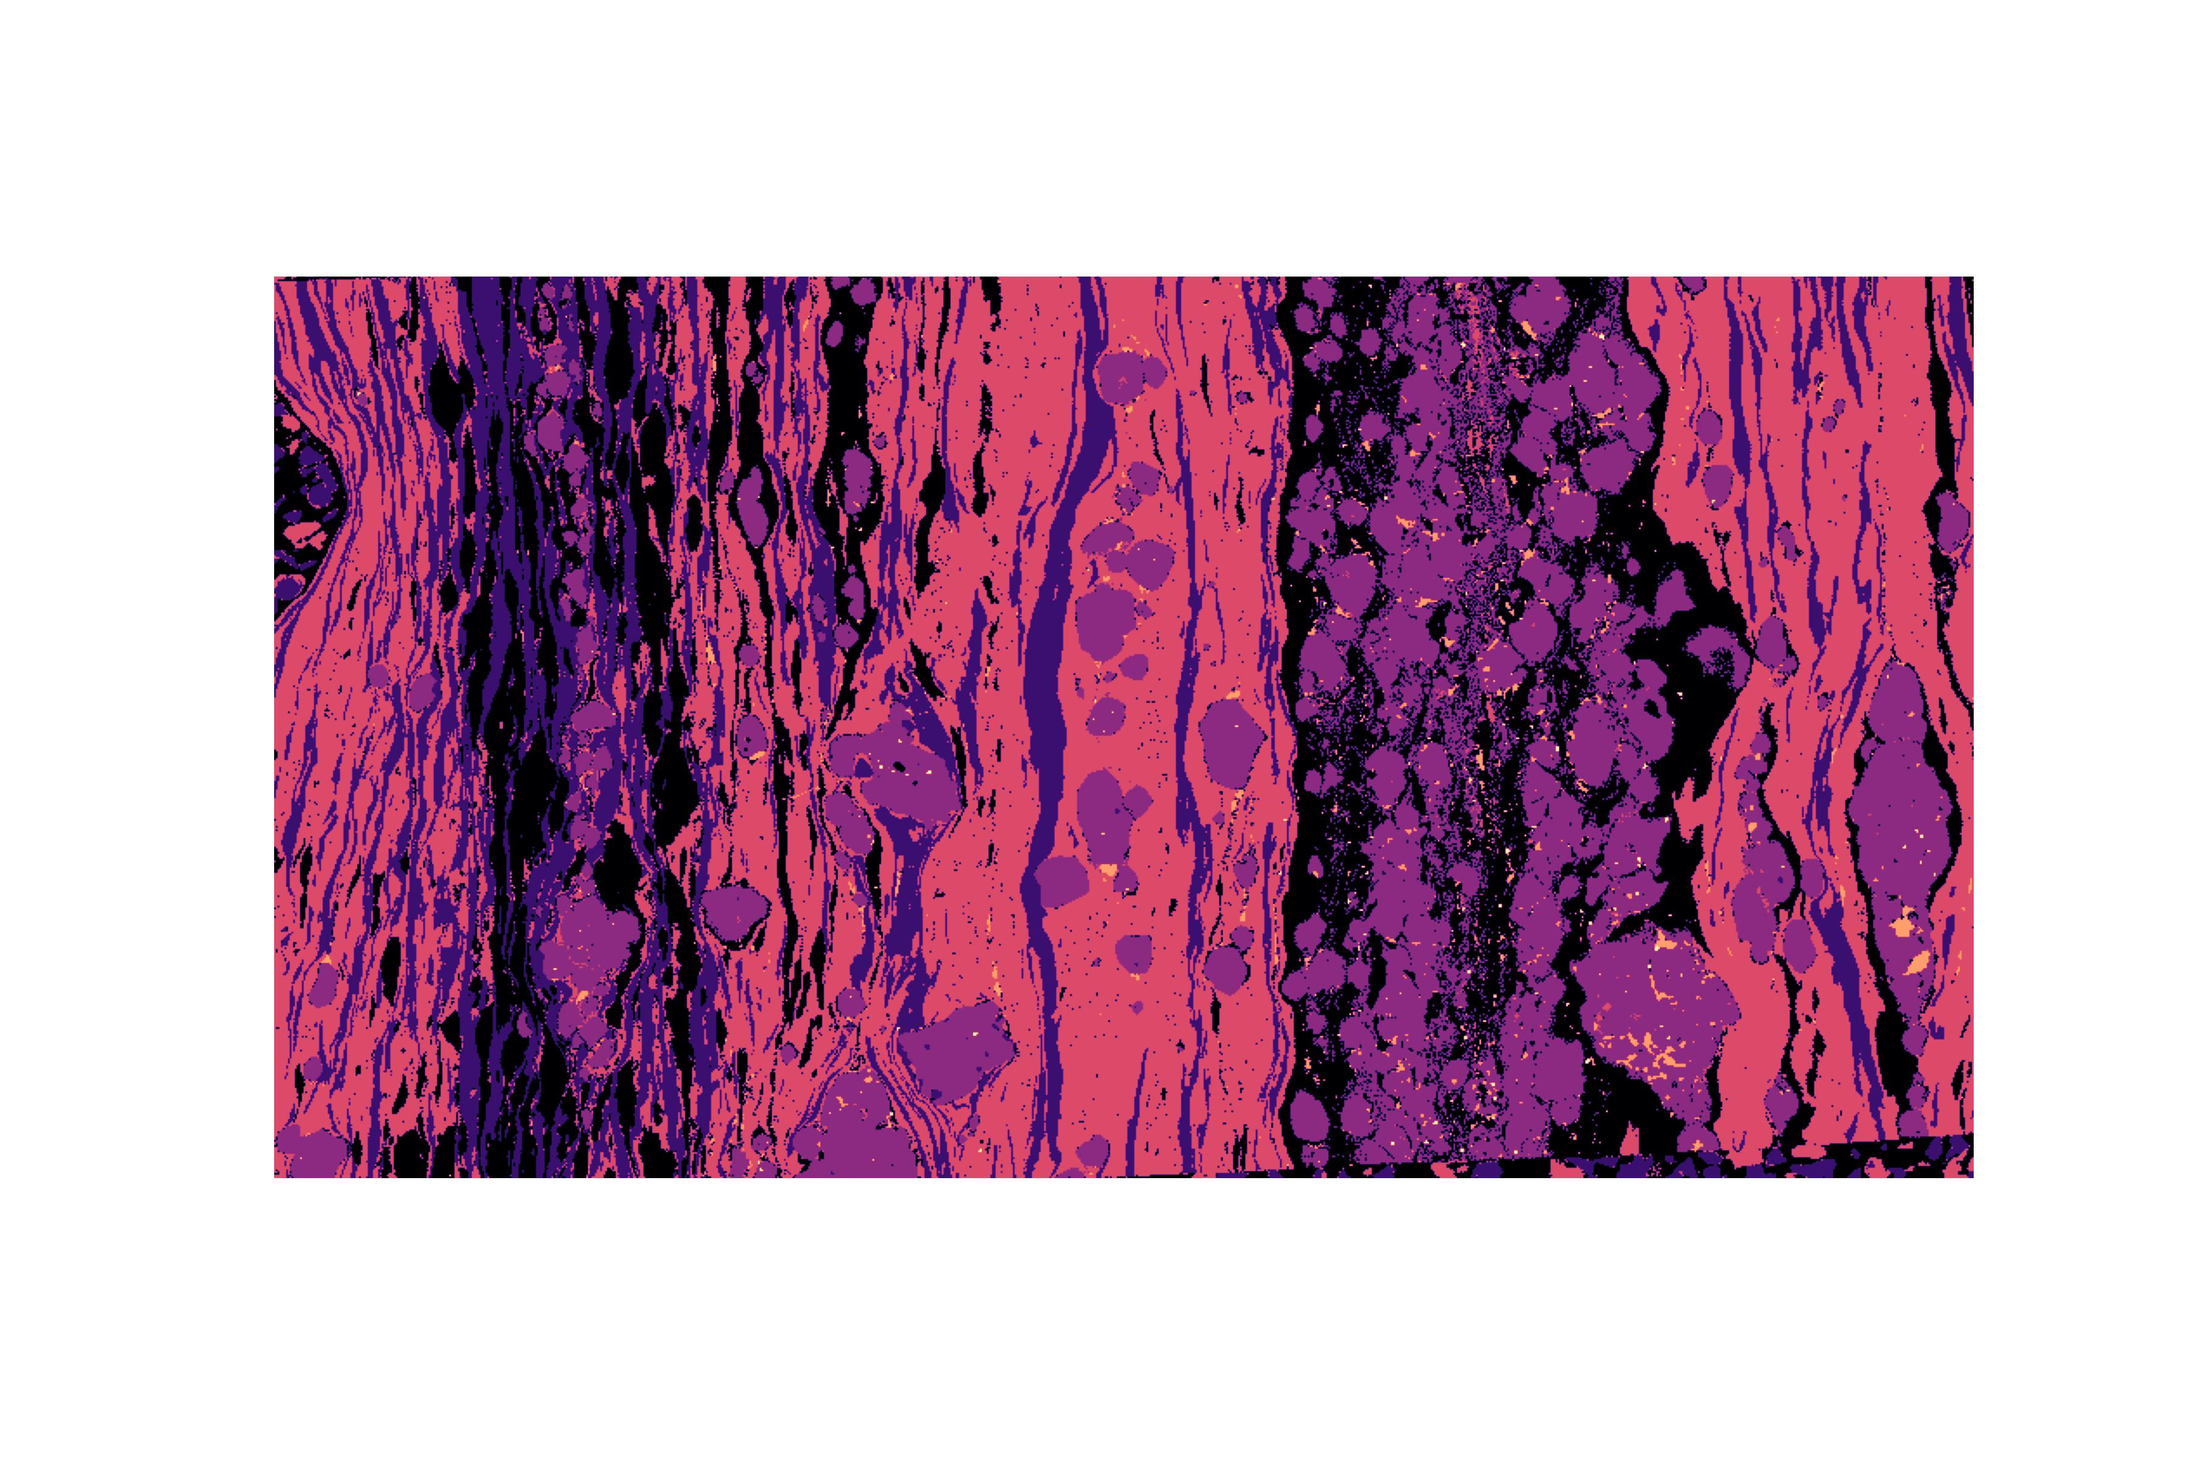
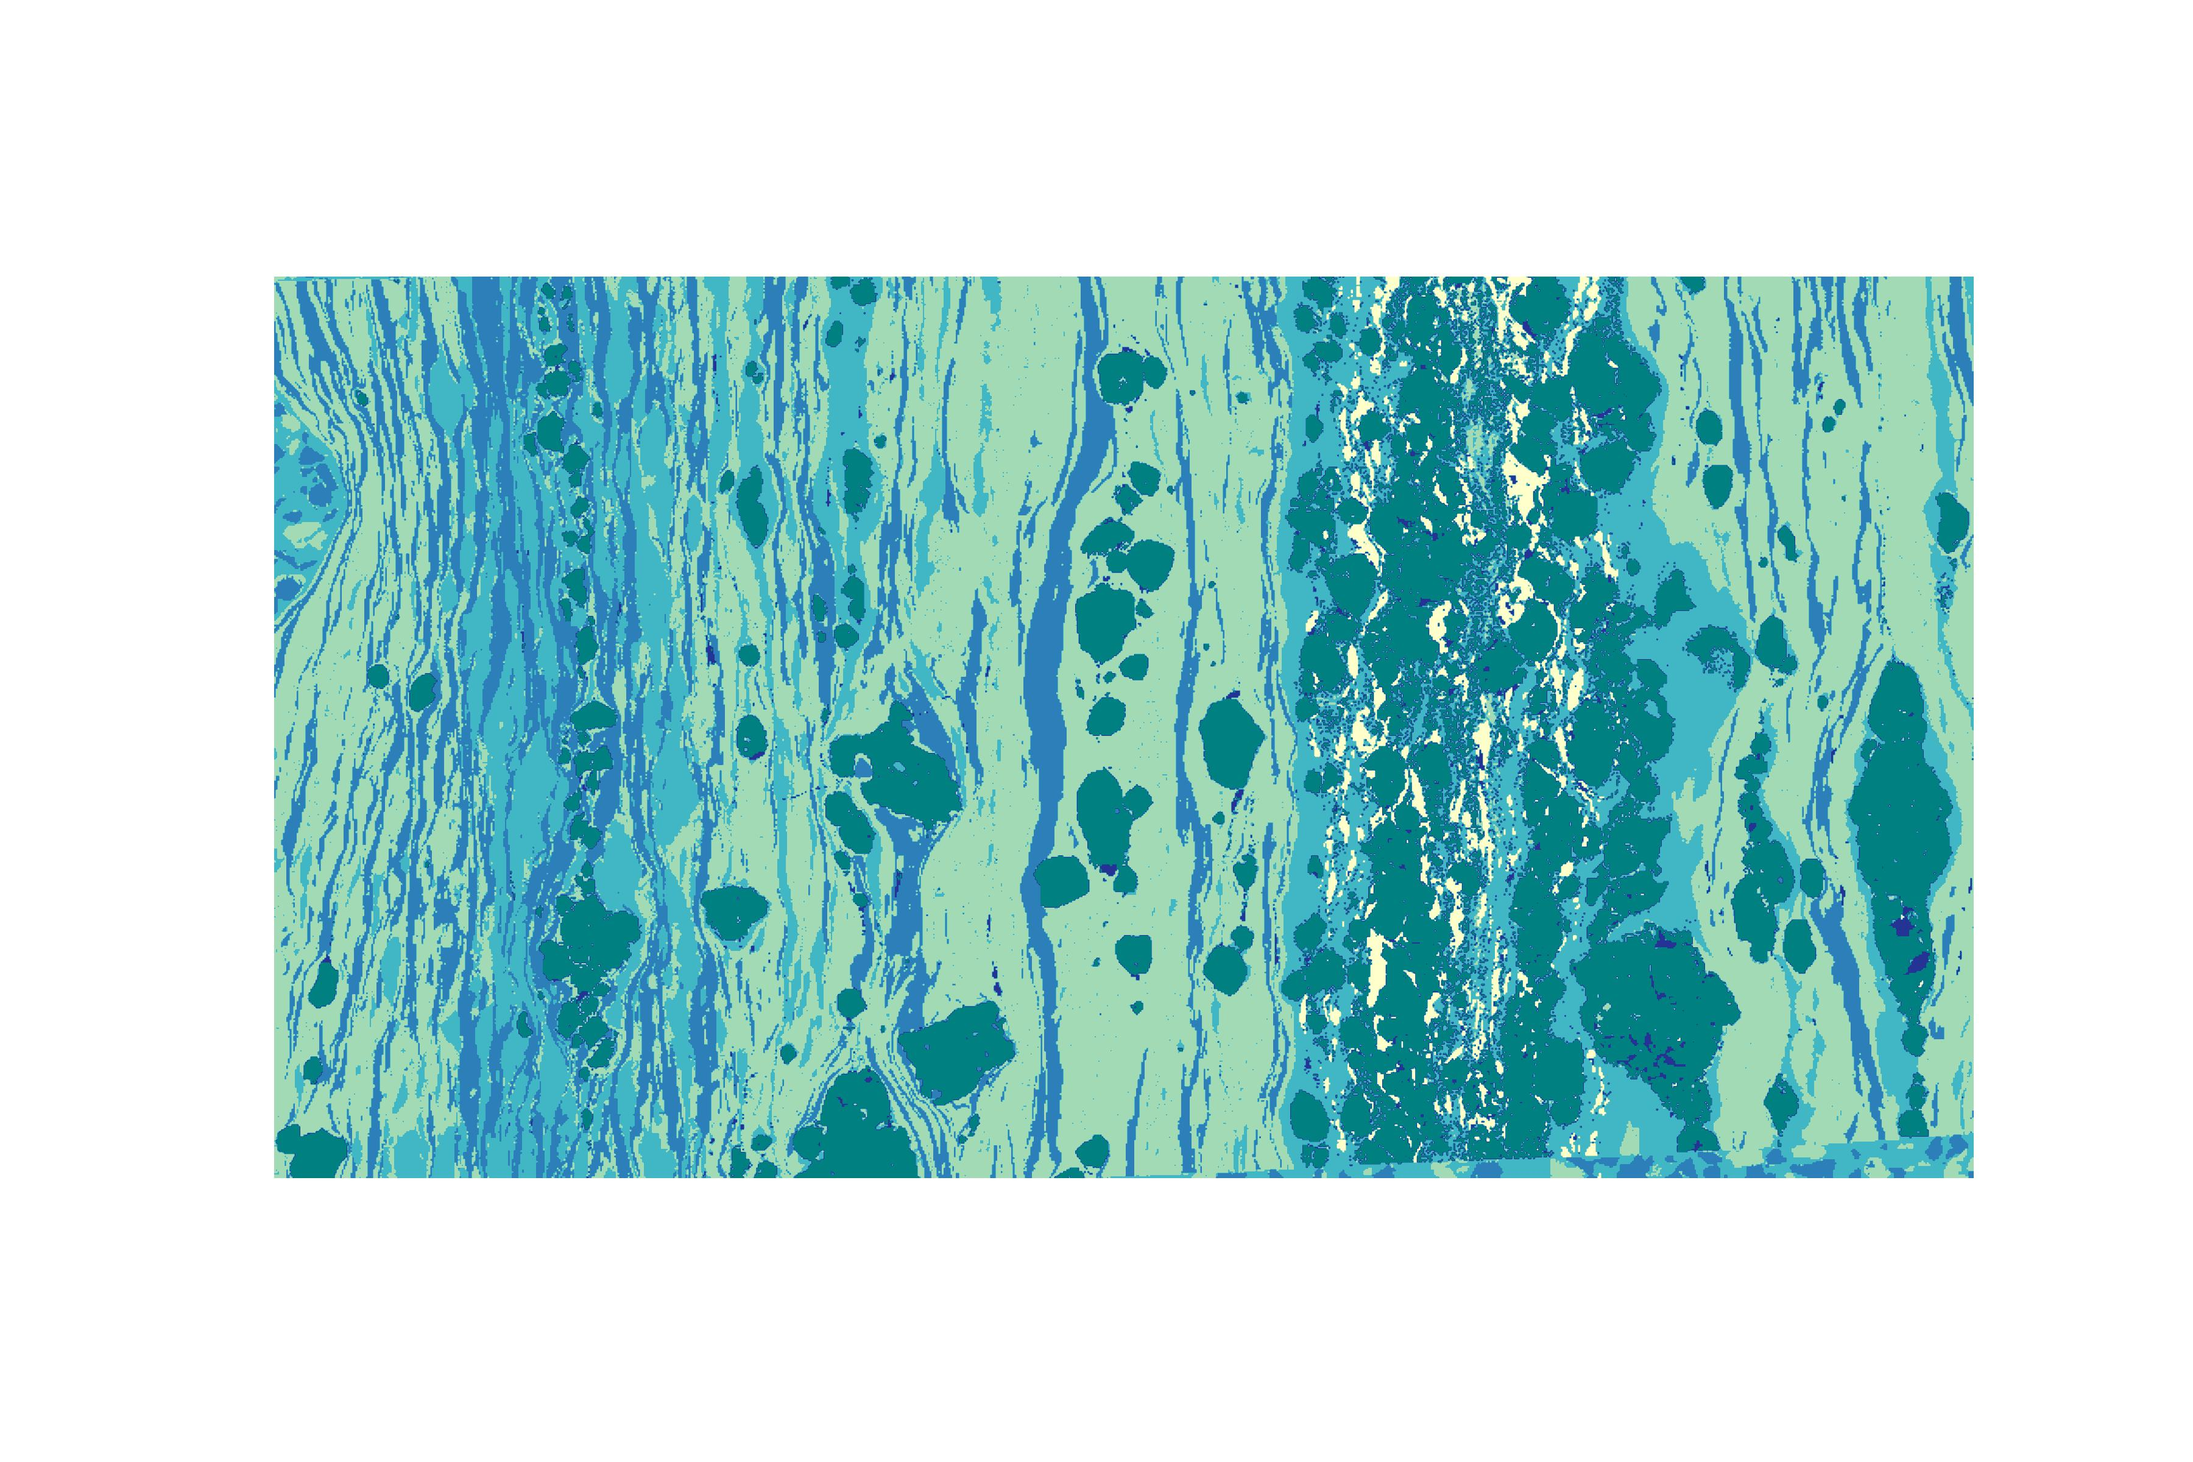
refactored colormap setting, added self.cluster_info, added methods for editing self.cluster_info, added method for defining each clusters colour

diff --git a/xrf_cluster.py b/xrf_cluster.py
@@ -6,14 +6,13 @@ TO DO LIST:
     
     5. Make docstrings!
     6. Build a method to score the clustering based on existing results.
-    9. Update everything for actual data.
     10. Maybe change how we deal with images so it is easy to save and export them after the fact,
     that said, generating the images takes so little time, so perhaps we don't need to carry
     them in memory.
     11. Revise save stats to not rely on numpy
     12. Figure out how to build a file with a neat folderset
     13. Define a method for picking colours for individual clusters as opposed to just setting default colur maps
-    14. Create a cluster dictionary containing "name" and "colour" (maybe more) to be set by users later
+
     
 DONE LIST
     1. update plot_clusters so that binary plots of cluster vs all can be made
@@ -24,6 +23,9 @@ DONE LIST
     4. Create the methods get_stats() and save_stats()
     7. Create save_maps() method or methods #actually just added save argument to the plotting image methods
     8. Figure out how to set a colour pallate for the images
+    9. Update everything for actual data.
+    14. Create a cluster dictionary containing "name" and "colour" (maybe more) to be set by users later
+    15. Define a method for setting different colormaps
 """
 import PIL
 import numpy as np
@@ -32,6 +34,8 @@ import glob
 from sklearn.cluster import KMeans
 from sklearn.preprocessing import StandardScaler
 import matplotlib.pyplot as plt
+from matplotlib.colors import ListedColormap
+import matplotlib as mpl
 
 
 #this is for later, let me figure out how to do things first
@@ -46,6 +50,7 @@ class XRF_cluster():
         self._channels = None #the features used in clustering
         self._n_cluster = None
         self._target_values = None
+        self.cluster_info = None #Information about each cluster, 0 = alias (e.g. mineral type) 1 = colour code
         
         self.outpath = outpath
         if self.outpath is None:
@@ -182,6 +187,120 @@ class XRF_cluster():
     def _unflatten_sheet(self):
         pass
     
+    def _generate_cluster_info(self):
+        """
+        Hidden method used to reset the cluster information dictionary in the 
+        class attributes. It first, resets the attrubute self.cluster_info to a 
+        blank dictionary. Then it fills that dictionary with two-value lists, keyed
+        0 - n where n is the number of clusters prescribed during self.cluster().
+        Note that this method fills the lists with default values "mineral" and 
+        "colour".
+        
+        The intended use for the cluster_info dict is to contain two bits of 
+        information about each cluster. 1) the proposed mineral type of the cluster
+        and 2) the colour used to identify that cluster in the map (likely as a
+        hex code) for example:
+                                                                    
+        self.cluster_info = {0: ['tourmaline', '#5F9EA0'],
+                             1: ['muscovite', '#FF00FF'],
+                             2: ['spodumene', '#FFDAB9']}
+        
+        DEVELOPMENT NOTE
+        ----------------
+        If more values are needed in each self.cluster_info dictionary entry, e.g.
+        if we have to add some geochemical value, or anything like that, please
+        add a default entry here. That will be easiest.
+        """
+        self.cluster_info = {}
+        for i in list(range(self._n_cluster)):
+            self.cluster_info[i] = ['mineral', 'colour']
+    
+    def set_colourmap(self, cmap):
+        """
+        Sets the output colourmap to one of the default matplotlib colourmaps.
+        Note, this changes the colour for every cluster sequentially, i.e., the
+        "lowest value" or "first" colour in the map will be assigned to cluster 
+        "0", then the second value goes to cluster "1", etc. 
+
+        NOTE ON SPELLING
+        Whenever an established code name is used, I will use that term, e.g.,
+        matplotlib colormap. At all other times I will use the Canadian spelling
+        of "colour".        
+
+        Parameters
+        ----------
+        cmap : str, matplotlib colormap
+            The colourmap to be used. In general, this class will default to 
+            "inferno". See options at https://matplotlib.org/stable/users/explain/colors/colormaps.html#colormaps
+
+        Raises
+        ------
+        ValueError
+            If the cmap value is not a valid colormap.
+        """
+        #Filtering out non-matplotlib colormaps
+        if cmap not in ['Accent', 'Accent_r', 'Blues', 'Blues_r', 'BrBG', 'BrBG_r', 'BuGn', 'BuGn_r', 'BuPu', 'BuPu_r', 'CMRmap', 'CMRmap_r', 'Dark2', 'Dark2_r', 'GnBu', 'GnBu_r', 'Greens', 'Greens_r', 'Greys', 'Greys_r', 'OrRd', 'OrRd_r', 'Oranges', 'Oranges_r', 'PRGn', 'PRGn_r', 'Paired', 'Paired_r', 'Pastel1', 'Pastel1_r', 'Pastel2', 'Pastel2_r', 'PiYG', 'PiYG_r', 'PuBu', 'PuBuGn', 'PuBuGn_r', 'PuBu_r', 'PuOr', 'PuOr_r', 'PuRd', 'PuRd_r', 'Purples', 'Purples_r', 'RdBu', 'RdBu_r', 'RdGy', 'RdGy_r', 'RdPu', 'RdPu_r', 'RdYlBu', 'RdYlBu_r', 'RdYlGn', 'RdYlGn_r', 'Reds', 'Reds_r', 'Set1', 'Set1_r', 'Set2', 'Set2_r', 'Set3', 'Set3_r', 'Spectral', 'Spectral_r', 'Wistia', 'Wistia_r', 'YlGn', 'YlGnBu', 'YlGnBu_r', 'YlGn_r', 'YlOrBr', 'YlOrBr_r', 'YlOrRd', 'YlOrRd_r', 'afmhot', 'afmhot_r', 'autumn', 'autumn_r', 'binary', 'binary_r', 'bone', 'bone_r', 'brg', 'brg_r', 'bwr', 'bwr_r', 'cividis', 'cividis_r', 'cool', 'cool_r', 'coolwarm', 'coolwarm_r', 'copper', 'copper_r', 'cubehelix', 'cubehelix_r', 'flag', 'flag_r', 'gist_earth', 'gist_earth_r', 'gist_gray', 'gist_gray_r', 'gist_heat', 'gist_heat_r', 'gist_ncar', 'gist_ncar_r', 'gist_rainbow', 'gist_rainbow_r', 'gist_stern', 'gist_stern_r', 'gist_yarg', 'gist_yarg_r', 'gnuplot', 'gnuplot2', 'gnuplot2_r', 'gnuplot_r', 'gray', 'gray_r', 'hot', 'hot_r', 'hsv', 'hsv_r', 'inferno', 'inferno_r', 'jet', 'jet_r', 'magma', 'magma_r', 'nipy_spectral', 'nipy_spectral_r', 'ocean', 'ocean_r', 'pink', 'pink_r', 'plasma', 'plasma_r', 'prism', 'prism_r', 'rainbow', 'rainbow_r', 'seismic', 'seismic_r', 'spring', 'spring_r', 'summer', 'summer_r', 'tab10', 'tab10_r', 'tab20', 'tab20_r', 'tab20b', 'tab20b_r', 'tab20c', 'tab20c_r', 'terrain', 'terrain_r', 'turbo', 'turbo_r', 'twilight', 'twilight_r', 'twilight_shifted', 'twilight_shifted_r', 'viridis', 'viridis_r', 'winter', 'winter_r']:
+            raise ValueError(str(cmap)+" is not a valid value for cmap; supported values are 'Accent', 'Accent_r', 'Blues', 'Blues_r', 'BrBG', 'BrBG_r', 'BuGn', 'BuGn_r', 'BuPu', 'BuPu_r', 'CMRmap', 'CMRmap_r', 'Dark2', 'Dark2_r', 'GnBu', 'GnBu_r', 'Greens', 'Greens_r', 'Greys', 'Greys_r', 'OrRd', 'OrRd_r', 'Oranges', 'Oranges_r', 'PRGn', 'PRGn_r', 'Paired', 'Paired_r', 'Pastel1', 'Pastel1_r', 'Pastel2', 'Pastel2_r', 'PiYG', 'PiYG_r', 'PuBu', 'PuBuGn', 'PuBuGn_r', 'PuBu_r', 'PuOr', 'PuOr_r', 'PuRd', 'PuRd_r', 'Purples', 'Purples_r', 'RdBu', 'RdBu_r', 'RdGy', 'RdGy_r', 'RdPu', 'RdPu_r', 'RdYlBu', 'RdYlBu_r', 'RdYlGn', 'RdYlGn_r', 'Reds', 'Reds_r', 'Set1', 'Set1_r', 'Set2', 'Set2_r', 'Set3', 'Set3_r', 'Spectral', 'Spectral_r', 'Wistia', 'Wistia_r', 'YlGn', 'YlGnBu', 'YlGnBu_r', 'YlGn_r', 'YlOrBr', 'YlOrBr_r', 'YlOrRd', 'YlOrRd_r', 'afmhot', 'afmhot_r', 'autumn', 'autumn_r', 'binary', 'binary_r', 'bone', 'bone_r', 'brg', 'brg_r', 'bwr', 'bwr_r', 'cividis', 'cividis_r', 'cool', 'cool_r', 'coolwarm', 'coolwarm_r', 'copper', 'copper_r', 'cubehelix', 'cubehelix_r', 'flag', 'flag_r', 'gist_earth', 'gist_earth_r', 'gist_gray', 'gist_gray_r', 'gist_heat', 'gist_heat_r', 'gist_ncar', 'gist_ncar_r', 'gist_rainbow', 'gist_rainbow_r', 'gist_stern', 'gist_stern_r', 'gist_yarg', 'gist_yarg_r', 'gnuplot', 'gnuplot2', 'gnuplot2_r', 'gnuplot_r', 'gray', 'gray_r', 'hot', 'hot_r', 'hsv', 'hsv_r', 'inferno', 'inferno_r', 'jet', 'jet_r', 'magma', 'magma_r', 'nipy_spectral', 'nipy_spectral_r', 'ocean', 'ocean_r', 'pink', 'pink_r', 'plasma', 'plasma_r', 'prism', 'prism_r', 'rainbow', 'rainbow_r', 'seismic', 'seismic_r', 'spring', 'spring_r', 'summer', 'summer_r', 'tab10', 'tab10_r', 'tab20', 'tab20_r', 'tab20b', 'tab20b_r', 'tab20c', 'tab20c_r', 'terrain', 'terrain_r', 'turbo', 'turbo_r', 'twilight', 'twilight_r', 'twilight_shifted', 'twilight_shifted_r', 'viridis', 'viridis_r', 'winter', 'winter_r'")
+        
+        #Extracting values from the cmap
+        colours = mpl.colormaps[cmap].resampled(self._n_cluster)
+        for n in list(range(self._n_cluster)):
+            colour = colours.colors[n]
+            self.cluster_info[n][1] = colour
+    
+    def set_colour(self, cluster, colour):
+        """
+        Defines a colour to use for a single phase during plotting.
+
+        Parameters
+        ----------
+        cluster : int
+            Number of the cluster to apply the colour to. Note that clusters are
+            numbered from 0-n where n is one less than the total number of 
+            clusters. Value must be present in self.cluster_info.keys().
+        colour : str, array, any kind of colour notation
+            Some colour notation that matplotlib will accept. Can be lots of things,
+            try the hex code if you are having trouble.
+
+        Raises
+        ------
+        ValueError
+            Will be raised if the cluster argument is not a part of
+            self.cluster_info.keys().
+        """
+        if cluster in self.cluster_info.keys():
+            self.cluster_info[cluster][1] = colour
+        else: 
+            raise ValueError(str(cluster)+" is not a valid cluster. Please use a key from self.cluster_info")
+            
+    def set_phase(self, cluster, phase):
+        """
+        Defines an alias to be used when refering to a cluster. This will often
+        be the mineral or phase that the cluster represents, e.g., "muscovite",
+        or "glass". This can be more descriptive, if appropriate, e.g., "garnet 
+        rims", "garnet cores", or "strange inclusions in the garnet".
+        
+        Parameters
+        ----------
+        cluster : int
+            Number of the cluster to apply the colour to. Note that clusters are
+            numbered from 0-n where n is one less than the total number of 
+            clusters. Value must be present in self.cluster_info.keys().
+        colour : str, array, any kind of colour notation
+            Some colour notation that matplotlib will accept. Can be lots of things,
+            try the hex code if you are having trouble.
+
+        Raises
+        ------
+        ValueError
+            Will be raised if the cluster argument is not a part of
+            self.cluster_info.keys().
+        """
+        if cluster in self.cluster_info.keys():
+            self.cluster_info[cluster][0] = phase
+        else: 
+            raise ValueError(str(cluster)+" is not a valid cluster. Please use a key from self.cluster_info")
+        
     def cluster(self, clusters):
         #Pre-start saving the cluster number
         if not isinstance(clusters, int):
@@ -201,7 +320,11 @@ class XRF_cluster():
         #Saving to a class attribute
         self._clusters = kmn_pred
         
-    def _display(self, phase_list = None, save = False, filepath = None, cmap = 'viridis'):
+        #generating cluster information, and building a default colormap
+        self._generate_cluster_info()
+        self.set_colourmap('inferno')
+        
+    def _display(self, phase_list = None, save = False, filepath = None):
         #Displays the array, we could add the option to select colours here as well
         displayed_element = None
         if phase_list is None:
@@ -221,29 +344,41 @@ class XRF_cluster():
         if filepath is None and save == True:
             filepath = self.outpath+displayed_element+"_map.jpg"
         
+        #Extracting the colourmap from self.cluster_info
+        c_map = []
+        for i in self.cluster_info.keys():
+            c_map += [self.cluster_info[i][1]]
+        c_map = ListedColormap(c_map)
+        
         #plotting the array as a false coloured map
         fig = plt.figure()
         plt.axis('off') #removing axis ticks and tick labels
         fig.patch.set_visible(False) #removing the white apron
         
         if save == True:
-            plt.imshow(phase_list, cmap=cmap)
+            plt.imshow(phase_list, cmap=c_map)
             plt.savefig(fname = filepath, dpi = 600)
         if save == False:
-            plt.imshow(phase_list, cmap=cmap)
+            plt.imshow(phase_list, cmap=c_map)
         
     
-    def plot_clusters(self, cluster = None, save = False, cmap = 'viridis'):
+    def plot_clusters(self, cluster = None, save = False):
         #A method that shows an image of the classified clusters
         #must be updated to show more than one cluster if requested
         #clusters = []
         
+        #Extracting the colourmap from self.cluster_info
+        c_map = []
+        for i in self.cluster_info.keys():
+            c_map += [self.cluster_info[i][1]]
+        c_map = ListedColormap(c_map)
+
         if cluster == None:
             #Plotting the full phasemap together by calling the default of display
             if save == True:
-                    self._display(save = True, cmap=cmap)
+                    self._display(save = True)
             elif save == False:
-                    self._display(cmap=cmap)
+                    self._display()
             return
         
         elif cluster == 'All' or cluster == 'all' or cluster == 'ALL':
@@ -392,26 +527,7 @@ class XRF_cluster():
         #Kind of redundant with save arguments added to earlier methods
         pass
     
-    # def import_targets(self, targetpath):
-    #Stopped development because I don't have target information to verify with.
-        
-    #     if targetpath[-4:] == '.bmp':
-    #         new_map = PIL.Image.open(targetpath) #add some error flags here to ensure an image is being imported
-    #         temp_array = np.array(new_map) 
-    #     elif targetpath[-4:] == '.TXT' or targetpath[-4:] == '.txt':
-    #         temp_array = np.loadtxt(targetpath, delimiter = ',')
-    #     else:
-    #         raise KeyError('imported data must be in either .bmp or .TXT format')
-    #         return
-        
-    #     row = temp_array.flatten()
-        
-    #     self._target_values = row
 
-    
-    # def score(self, other):
-    #     pass
-    
 #It works. Try it.
 def test(shape = 1):
     ### IMPORTANT, must reset this to match the new self.fit() method ###
@@ -438,6 +554,6 @@ if __name__ == "__main__":
                      outpath="Example data/test_output/NW13-33/")
     module_test.fit()
     module_test.cluster(clusters = 6)
-    module_test.plot_clusters(cluster = None, save = True, cmap='magma')
-    module_test.get_stats()
-    module_test.save_stats()
+    module_test.plot_clusters(cluster = None, save = False)
+    #module_test.get_stats()
+    #module_test.save_stats()
